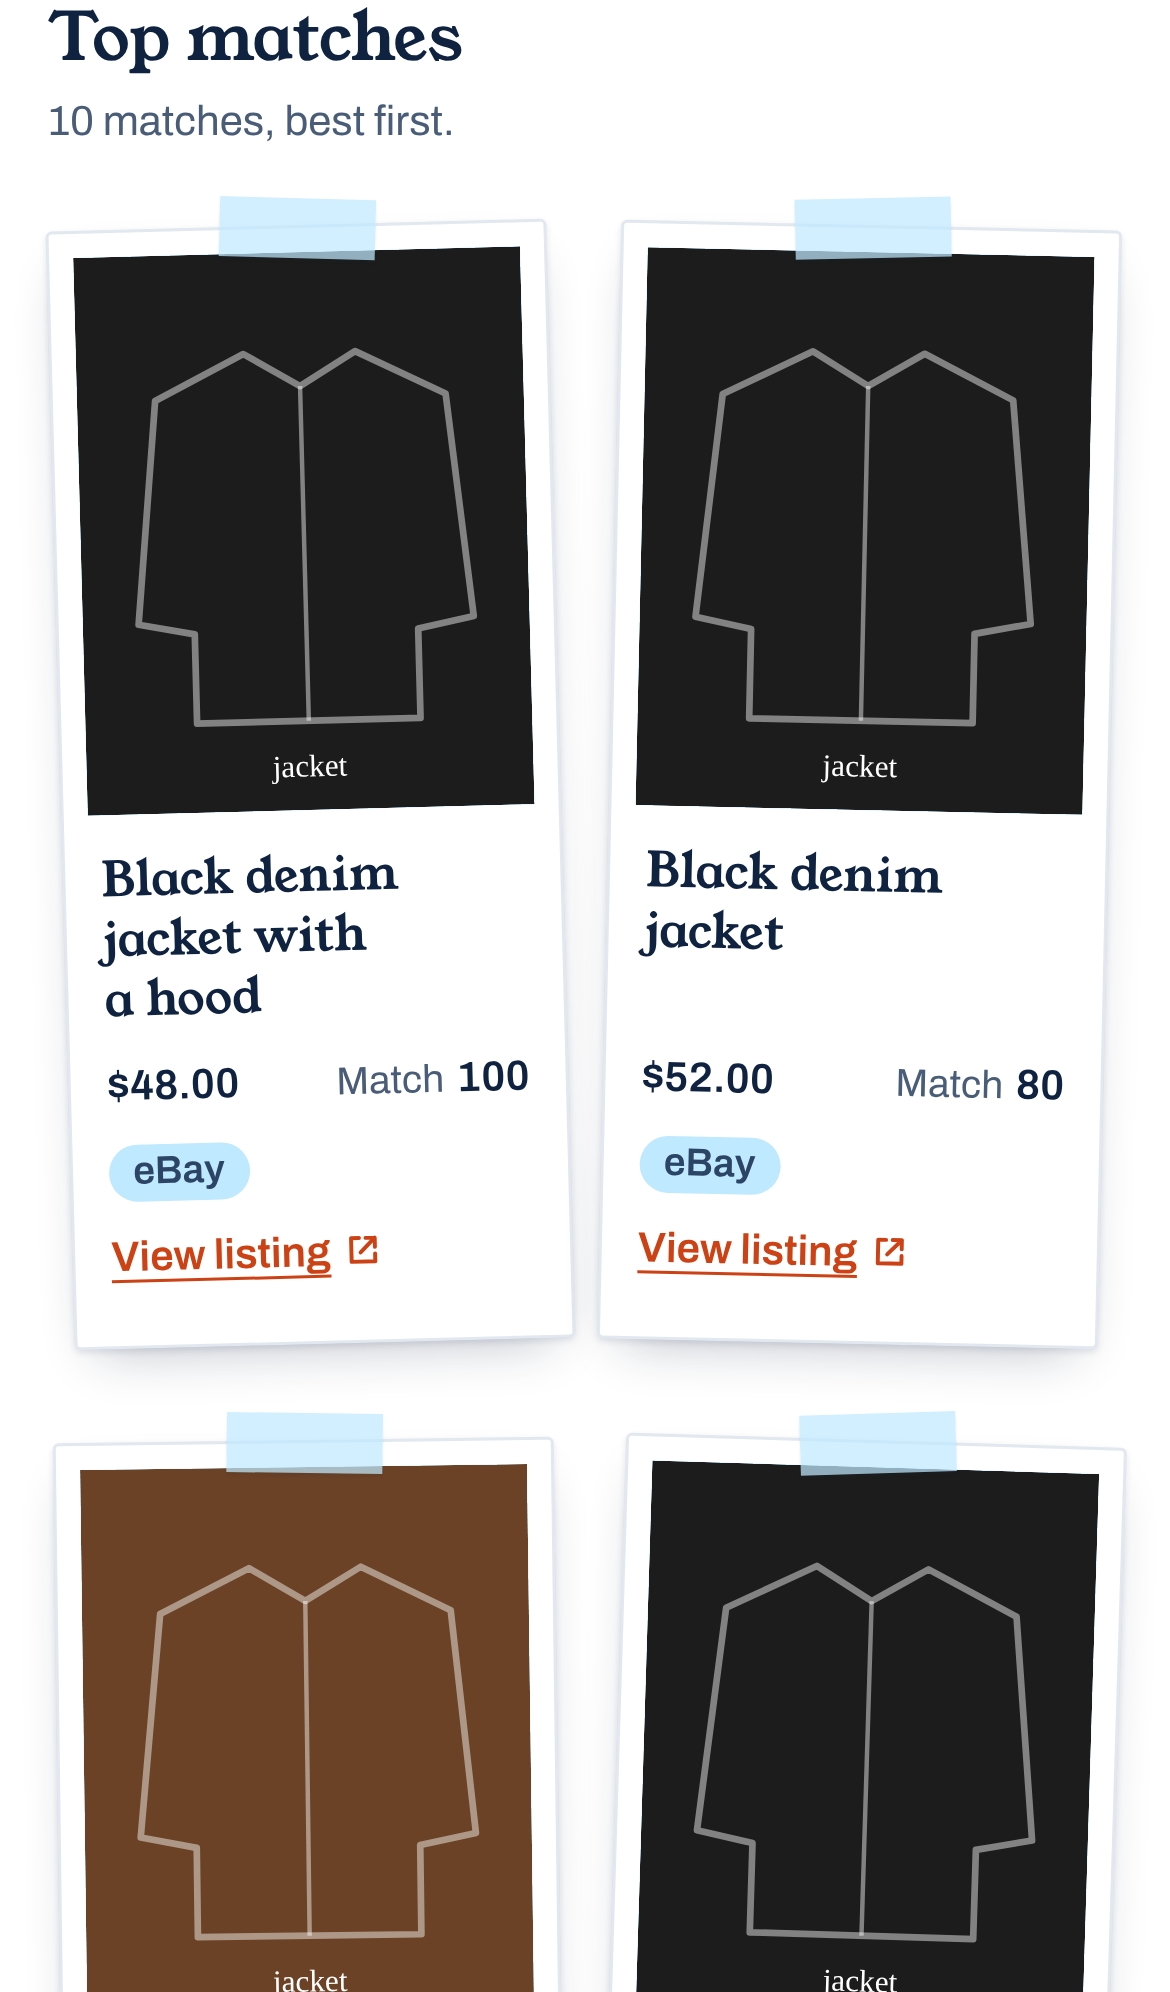
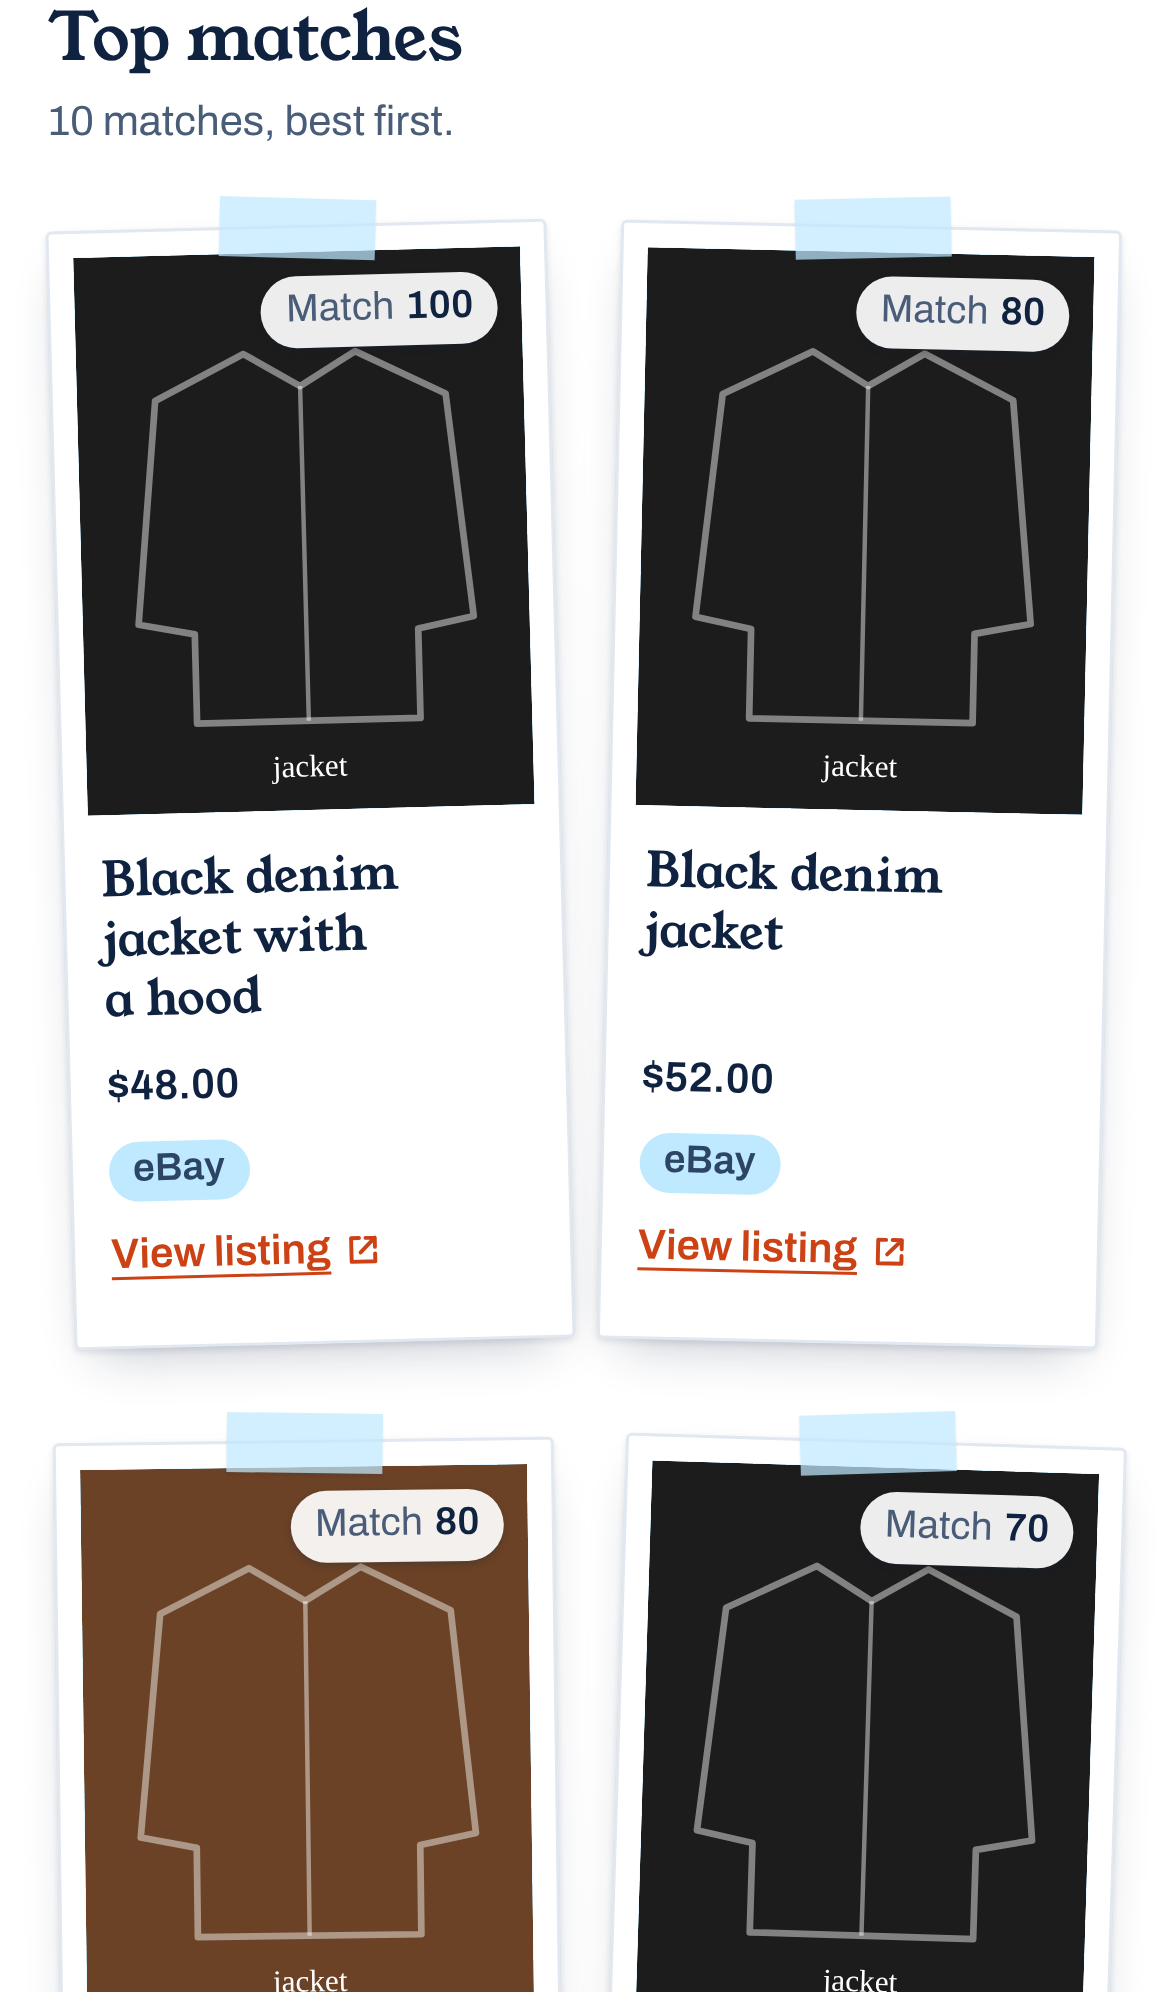
S3-5: say "Price unavailable" and stamp the match score on the photo
"No price" was ambiguous, so archive items say "Price unavailable" on the
frame again. That text doesn't fit beside the score on a 5-column board, so
the match score is now a white stamp in the photo's top-right corner, and
the frame shows only the title and price.

- The score stays in the caption in the DOM (title, price, score) and is
  positioned over the photo with CSS, so reading order doesn't change. It
  sits above the hover overlay and ignores clicks.
- The overlay drops its match bar (the stamp shows the score) and the hint
  now reads "See details", under View listing, so neither collides with
  the stamp.
- frontend/README and the three S3-5 screenshots updated.

Claude-Session: https://claude.ai/code/session_01GSZa8r27fXzFfGFPWFpU8e

diff --git a/frontend/src/components/ResultsGrid/ResultsGrid.module.css b/frontend/src/components/ResultsGrid/ResultsGrid.module.css
@@ -186,11 +186,24 @@
   color: var(--color-text-muted);
 }
 
+/* The match score is stamped on the photo's top-right corner, like a sticker, so the frame
+   has room for "Price unavailable" on the narrowest polaroids. Positioned against the polaroid
+   (not the photo) so it stays in reading order after the price, and above the hover overlay. */
 .score {
+  position: absolute;
+  z-index: 2;
+  top: calc(var(--space-2) + var(--space-2));
+  right: calc(var(--space-2) + var(--space-2));
   display: inline-flex;
   align-items: baseline;
   gap: 0.3em;
+  padding: 0.125rem var(--space-2);
+  border-radius: 999px;
+  background: rgb(255 255 255 / 0.92);
+  box-shadow: 0 1px 2px rgb(15 34 64 / 0.25);
+  font-size: var(--text-xs);
   white-space: nowrap;
+  pointer-events: none;
 }
 
 .scoreLabel {
@@ -255,30 +268,9 @@
   stroke-linejoin: round;
 }
 
-/* The match bar and the hint only appear in the hover overlay; the frame already shows the
-   number, and on touch screens a tap is the obvious way in. */
-.meter,
+/* The hint only appears in the hover overlay; on touch screens a tap is the obvious way in. */
 .hint {
   display: none;
-}
-
-.meterLabel {
-  font-size: var(--text-xs);
-}
-
-.bar {
-  flex: 1;
-  height: 6px;
-  border-radius: 999px;
-  background: rgb(255 255 255 / 0.35);
-  overflow: hidden;
-}
-
-.bar > span {
-  display: block;
-  height: 100%;
-  border-radius: inherit;
-  background: #ffffff;
 }
 
 /* Hover to blur: with a mouse, the details move over the photo and appear on hover or focus. */
@@ -327,22 +319,16 @@
     color: var(--color-text);
   }
 
+  /* Under View listing, so it never collides with the match stamp in the top corner. */
   .hint {
     display: block;
-    align-self: center;
-    margin-bottom: auto;
+    order: 1;
+    align-self: flex-start;
     padding: var(--space-1) var(--space-3);
     border-radius: 999px;
     background: rgb(15 34 64 / 0.55);
     font-size: var(--text-xs);
     font-weight: 600;
-  }
-
-  .meter {
-    display: flex;
-    align-items: center;
-    gap: var(--space-2);
-    width: 100%;
   }
 
   .details .link,

diff --git a/frontend/src/components/ResultsGrid/ResultsGrid.tsx b/frontend/src/components/ResultsGrid/ResultsGrid.tsx
@@ -55,14 +55,15 @@ function ResultCard({ result, onOpenDetails }: ResultCardProps) {
             image
           )}
         </div>
-        {/* Written on the frame: what you need to compare photos at a glance. */}
+        {/* Written on the frame: what you need to compare photos at a glance. The match score
+            stays here in reading order (title, price, score) but is shown as a stamp on the photo. */}
         <div className={styles.caption}>
           <h3 id={titleId} className={styles.title}>
             {result.title}
           </h3>
           <p className={styles.meta}>
             <span className={styles.price} data-missing={result.price === null || undefined}>
-              {result.price === null ? 'No price' : usd.format(result.price)}
+              {result.price === null ? 'Price unavailable' : usd.format(result.price)}
             </span>
             <span className={styles.score}>
               <span className={styles.scoreLabel}>Match</span>
@@ -78,17 +79,11 @@ function ResultCard({ result, onOpenDetails }: ResultCardProps) {
         <div className={styles.details}>
           {onOpenDetails && (
             <span className={styles.hint} aria-hidden="true">
-              Click for details
+              See details
             </span>
           )}
           <span className={styles.source} data-source={result.source}>
             {SOURCE_LABELS[result.source]}
-          </span>
-          <span className={styles.meter} aria-hidden="true">
-            <span className={styles.meterLabel}>Match</span>
-            <span className={styles.bar}>
-              <span style={{ width: `${Math.min(100, Math.max(0, score))}%` }} />
-            </span>
           </span>
           {result.listing_url && (
             <a

diff --git a/frontend/src/test/ResultsGrid.test.tsx b/frontend/src/test/ResultsGrid.test.tsx
@@ -49,7 +49,7 @@ describe('ResultsGrid', () => {
     render(<ResultsGrid state={{ status: 'success', results: [ebay, local] }} onRetry={vi.fn()} />);
     const item = within(card(local.title));
 
-    expect(item.getByText('No price')).toBeInTheDocument();
+    expect(item.getByText('Price unavailable')).toBeInTheDocument();
     expect(item.getByText('Archive (not for sale)')).toBeInTheDocument();
     expect(item.getByText('40')).toBeInTheDocument();
     expect(item.queryByRole('link')).not.toBeInTheDocument();
@@ -89,7 +89,7 @@ describe('ResultsGrid', () => {
   it('leaves photos unclickable until there is a details page to open', () => {
     render(<ResultsGrid state={{ status: 'success', results: [ebay, local] }} onRetry={vi.fn()} />);
     expect(screen.queryByRole('button')).not.toBeInTheDocument();
-    expect(screen.queryByText('Click for details')).not.toBeInTheDocument();
+    expect(screen.queryByText('See details')).not.toBeInTheDocument();
   });
 
   it('shows skeleton cards and announces progress while loading', () => {

diff --git a/frontend/README.md b/frontend/README.md
@@ -32,7 +32,7 @@ React + TypeScript + Vite app for Thrift Searcher (CECS 451, Group 7). Owner: Me
   the model's attributes, the edited attributes, and the original description as `text` (left out when
   there was none). Responses from superseded searches are ignored.
 - **Results grid** (`ResultsGrid`; a polaroid board since S3-5, below): up to 10 cards with the image (title
-  as alt text), title, USD price or "Price unavailable" ("No price" since S3-5), a match-score bar with the
+  as alt text), title, USD price or "Price unavailable", a match-score bar with the
   rounded number, a source badge ("eBay" or "Archive (not for sale)"), and **View listing**, which opens the
   original listing in a new tab (`rel="noopener noreferrer"`). Cards with no `listing_url` have no link. While searching, skeleton cards
   show and "Finding matches…" is announced politely; zero results show a friendly empty message; errors
@@ -51,16 +51,17 @@ page").
   "Your results don't include these edits yet" note) sticks to the bottom of the window whenever the editor
   runs past it, so it is always on screen; checked at 1280×800, 1366×768, 1440×900, 1920×1080, and on a phone.
 - **Polaroids.** Each result is a white instant-photo frame taped to the board at a slight tilt (seven angles in
-  rotation, so no polaroid matches the one beside or above it). The title, the price ("No price" for archive
-  items), and the match score are written on the frame. Rank order still reads left to right, top to bottom. The loading
+  rotation, so no polaroid matches the one beside or above it). The title and the price ("Price unavailable"
+  for archive items) are written on the frame; the match score is a white stamp in the photo's top-right
+  corner, so long prices fit even on the narrowest polaroids. Rank order still reads left to right, top to bottom. The loading
   skeletons use the same frame.
 - **Hover to blur.** With a mouse, hovering a polaroid (or tabbing into it) straightens and lifts it, blurs the
-  photo, and shows an overlay with the source badge, a match bar, and **View listing**. Touch screens have no
+  photo, and shows an overlay with the source badge and **View listing**; the match stamp stays on top. Touch screens have no
   hover, so there the source badge and **View listing** sit under the caption instead. The switch is CSS only
   (`@media (hover: hover) and (pointer: fine)`): the details exist once in the page, and screen readers read
-  them in the same order either way. The match bar is decorative; the number on the frame is what gets read.
+  them in the same order either way.
 - **Click → details page.** `ResultsGrid` takes an optional `onOpenDetails(id)`. When it is passed, each photo
-  becomes a button ("See details: <title>") and the overlay shows a "Click for details" hint. `UploadPage` does
+  becomes a button ("See details: <title>") and the overlay shows a "See details" hint under **View listing**. `UploadPage` does
   not pass it yet, so photos are not clickable until S3-6 adds the details page.
 
 Screenshots (mock data): `docs/screenshots/s3-5-board-desktop.png` (1440×900 window),
@@ -191,7 +192,7 @@ the console.
 - **Mock search only** until S2-5 lands `POST /api/search`. Results come from the 28-item fake pool and a
   simple overlap score, not CLIP re-ranking. Mock listings, prices, links, and images are all fake.
 - Mock extract returns the same black denim jacket attributes, whatever you upload.
-- Local archive items have no price and no listing link (shown as "No price" and "Archive (not for
+- Local archive items have no price and no listing link (shown as "Price unavailable" and "Archive (not for
   sale)"), because the fallback dataset has neither (`docs/DATA.md`).
 - The description is sent with every search but cannot be edited in the editor; use **Edit upload**.
 - HEIC/HEIF photos (the iPhone default) are rejected. Export them as JPG first.
